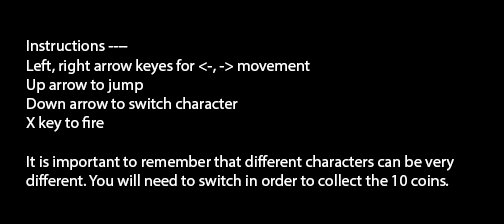
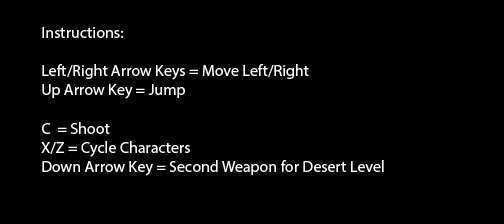
instruction update

Changed region(s): [[0.0298, 0.625, 0.9226, 0.8438], [0.0298, 0.125, 0.625, 0.5938]]

diff --git a/lib/game/levels/desert.js b/lib/game/levels/desert.js
@@ -2096,17 +2096,17 @@ LevelDesert=/*JSON[*/{
 				[0,0,0,0,0,0,0,0,0,0,0,0,0,0,1,0,0,0,0,0,0,0,0,0,0,0,0,0,0,2,1,1,1,1,1,1,1,1,1,1,0,0,0,0,0,0,0,0,0,0,0,0,0,0,0,0,0,0,0,0,0,0,0,0,0,0,0,0,0,0,0,0,0,0,0,0,0,0,0,0,0,0,0,0,0,0,0,0,12,12,0,0,0,0,0,0,0,0,0,0,0,0,0,0,0,0,0,0,0,0,0,0,1,1,0,0,0,0,0,0,0,0,1,0,0,0,0,0,0,0,0,0,0,0,0,0,0,0,1,1,37,0,0,0,0,0,0,0,0,0,0,0,0,0,0,0,0,0,0,0,0,0,0,0,0,0,0,0,0,0,0,0,0,0,0,0,12,1,0,0,0,0,0,0,0,0,0,0,0,0,0,0,0,0,0,0,12,0,0,0,0,0,0,0,1,0,0,0,0,0,0,0,0,0,0,0,0,0,0,0,0,0,0,0,0,0,0,0,1,0,0,0,0,0,0,0,0,0,0,0,0,0,0,0,0,0,0,0,0,0,0,0,0,0,0,0,0,0,0,0,0,0,0,0,0,0,0,0,0,0,0,0,0,0,0,0,0,0,0,0,0,0,0,0,0,0,0,0,0,0,0,0,0,0,0,0,0,0,0,0],
 				[0,0,0,0,0,0,0,0,0,0,0,0,0,0,1,0,0,0,0,2,1,28,0,0,0,0,0,0,2,1,1,1,1,1,1,1,1,1,1,1,0,0,0,0,0,0,0,0,0,0,0,0,0,0,0,0,0,0,0,0,0,0,0,0,0,0,0,0,0,0,0,0,0,0,0,0,0,0,0,0,0,0,0,0,0,0,0,0,0,0,0,0,0,0,0,0,0,0,0,0,0,0,0,0,0,0,0,0,0,0,0,0,0,0,0,0,0,0,0,1,1,1,1,0,0,0,0,0,0,0,0,0,0,0,0,0,0,1,1,0,0,0,0,0,0,0,0,0,0,0,0,0,0,0,0,0,0,0,0,0,0,0,0,0,0,0,0,0,0,0,0,0,0,0,0,0,0,1,0,0,0,0,0,0,0,0,0,0,12,0,0,0,0,0,0,0,0,1,1,0,0,0,0,0,1,0,0,0,0,0,0,0,0,0,0,0,0,0,0,0,0,0,0,0,0,0,0,0,1,0,0,0,0,0,0,0,0,0,0,0,0,0,0,0,0,0,0,0,0,0,0,0,0,0,0,0,0,0,0,0,0,0,0,0,0,0,0,0,0,0,0,0,0,0,0,0,0,0,0,0,0,0,0,0,0,0,0,0,0,0,0,0,0,0,0,0,0,0,0,0],
 				[0,0,0,0,0,0,0,0,0,0,0,0,0,1,1,1,1,1,1,1,1,1,1,12,12,12,12,12,1,1,1,1,1,1,1,1,1,1,1,1,0,0,0,0,0,0,0,0,0,0,0,0,0,0,0,0,0,0,0,0,0,0,0,0,0,0,0,0,0,0,0,0,0,0,0,0,0,0,0,0,2,1,1,1,1,1,24,0,0,0,0,0,0,0,0,0,0,0,0,0,0,0,0,0,0,0,0,0,0,0,0,0,0,0,0,0,0,0,0,1,1,1,1,0,0,0,0,0,0,0,0,0,1,1,1,1,1,0,0,0,0,0,0,0,0,0,0,0,0,0,0,0,0,0,0,0,0,0,0,0,0,0,0,12,12,0,0,0,0,0,0,0,0,0,0,0,0,1,0,0,0,0,0,0,0,0,0,0,0,0,0,0,0,0,0,0,0,0,0,0,0,0,0,0,0,1,0,0,0,0,0,0,0,0,0,0,0,0,0,0,0,0,0,0,0,0,0,0,1,0,0,0,0,0,0,0,0,0,0,0,0,0,0,0,0,0,0,0,0,0,0,0,0,0,0,0,0,0,0,0,0,0,0,0,0,0,0,0,0,0,0,0,0,0,0,0,0,0,0,0,0,0,0,0,0,0,0,0,0,0,0,0,0,0,0,0,0,0,0,0],
-				[0,0,0,0,0,0,0,0,0,0,0,0,0,1,0,0,0,0,0,0,0,0,1,1,24,0,0,0,0,0,0,1,1,1,1,1,1,1,1,1,24,0,0,0,0,0,0,0,0,0,0,0,0,0,0,0,0,0,0,0,0,0,0,0,0,0,0,0,0,0,0,0,0,0,0,0,0,0,0,0,1,0,0,0,0,0,0,24,0,0,0,0,0,0,0,0,0,0,0,0,0,0,0,0,0,0,0,0,0,0,0,0,0,0,0,0,0,0,0,1,1,1,1,1,1,1,0,1,1,1,1,1,0,0,0,0,0,0,0,0,0,0,0,0,0,0,0,0,0,0,0,0,0,0,12,12,0,0,0,0,0,0,0,0,0,0,0,0,0,0,0,0,0,0,0,0,1,1,0,0,0,0,0,0,0,0,0,0,0,0,0,0,0,0,0,0,0,0,0,0,0,0,0,0,0,0,0,0,0,0,0,0,0,0,0,1,0,0,0,0,0,0,0,0,0,0,0,0,1,1,0,0,0,0,0,0,0,0,0,0,0,0,0,0,0,0,0,0,0,0,0,0,0,0,0,0,0,0,0,0,0,0,0,0,0,0,0,0,0,0,0,0,0,0,0,0,0,0,0,0,0,0,0,0,0,0,0,0,0,0,0,0,0,0,0,0,0,0,0,0],
+				[0,0,0,0,0,0,0,0,0,0,0,0,0,1,0,0,0,0,0,0,0,0,1,1,24,0,0,0,0,0,0,1,1,1,1,1,1,1,1,1,24,0,0,0,0,0,0,0,0,0,0,0,0,0,0,0,0,0,0,0,0,0,0,0,0,0,0,0,0,0,0,0,0,0,0,0,0,0,0,0,1,1,0,0,0,0,0,24,0,0,0,0,0,0,0,0,0,0,0,0,0,0,0,0,0,0,0,0,0,0,0,0,0,0,0,0,0,0,0,1,1,1,1,1,1,1,0,1,1,1,1,1,0,0,0,0,0,0,0,0,0,0,0,0,0,0,0,0,0,0,0,0,0,0,12,12,0,0,0,0,0,0,0,0,0,0,0,0,0,0,0,0,0,0,0,0,1,1,0,0,0,0,0,0,0,0,0,0,0,0,0,0,0,0,0,0,0,0,0,0,0,0,0,0,0,0,0,0,0,0,0,0,0,0,0,1,0,0,0,0,0,0,0,0,0,0,0,0,1,1,0,0,0,0,0,0,0,0,0,0,0,0,0,0,0,0,0,0,0,0,0,0,0,0,0,0,0,0,0,0,0,0,0,0,0,0,0,0,0,0,0,0,0,0,0,0,0,0,0,0,0,0,0,0,0,0,0,0,0,0,0,0,0,0,0,0,0,0,0,0],
 				[0,0,0,0,0,0,0,0,0,0,0,0,0,1,0,0,0,0,0,0,0,0,0,1,1,24,0,0,0,0,0,0,1,1,1,1,1,1,1,1,1,1,1,1,1,1,1,1,1,1,1,1,1,24,0,0,0,0,0,0,0,0,0,0,0,0,0,0,0,0,0,0,0,0,0,0,0,0,0,2,1,0,0,0,0,0,0,24,24,0,0,0,0,0,0,0,0,0,0,0,0,0,0,0,0,0,0,0,0,0,0,0,0,0,0,0,0,0,0,0,0,0,0,0,0,0,0,0,0,0,0,0,0,0,0,0,0,0,0,0,0,0,0,0,0,0,0,0,0,0,0,0,0,0,0,0,0,0,0,0,0,0,0,0,0,0,0,0,0,0,0,0,0,0,0,1,1,0,0,0,0,0,0,0,0,0,0,0,0,0,0,0,0,0,0,0,0,0,0,0,0,0,0,0,0,0,0,0,0,0,0,0,0,0,0,0,0,0,0,0,0,0,0,0,0,0,0,0,0,1,0,0,0,0,0,0,0,0,0,0,0,0,0,0,0,0,0,0,0,0,0,0,0,0,0,0,0,0,0,0,0,0,0,0,0,0,0,0,0,0,0,0,0,0,0,0,0,0,0,0,0,0,0,0,0,0,0,0,0,0,0,0,0,0,0,0,0,0,0,0],
-				[0,0,0,0,0,0,0,0,0,0,0,0,0,0,0,0,0,0,0,0,0,0,0,0,0,1,24,0,0,0,0,0,0,0,1,1,1,1,1,1,1,1,1,1,1,1,1,1,1,1,1,1,1,1,24,0,0,0,0,0,0,0,0,0,0,0,0,0,0,0,0,0,0,0,2,1,1,1,1,1,0,0,0,0,0,0,0,0,0,1,1,1,1,24,0,0,0,0,0,0,0,0,0,0,0,0,0,0,0,0,0,0,0,0,0,0,0,0,0,0,0,0,0,0,0,0,0,0,0,0,0,0,0,0,0,0,0,12,12,12,12,12,12,12,12,0,0,0,0,0,0,0,0,0,0,0,0,0,0,0,0,0,0,0,0,0,0,0,0,0,0,0,0,0,1,0,0,0,0,0,0,0,0,0,0,0,0,0,12,0,0,0,0,0,0,0,0,12,12,12,12,24,0,0,0,0,0,0,0,0,0,0,0,0,0,0,0,0,0,0,0,0,0,0,0,0,0,0,0,1,0,0,0,0,0,0,0,0,0,0,0,0,0,0,0,0,0,0,0,0,0,0,0,0,0,0,0,0,0,0,0,0,0,0,0,0,0,0,0,0,0,0,0,0,0,0,0,0,0,0,0,0,0,0,0,0,0,0,0,0,0,0,0,0,0,0,0,0,0,0],
-				[0,0,0,0,0,0,0,0,0,0,0,0,0,0,0,0,0,0,0,0,0,0,0,0,0,0,1,24,0,0,0,0,0,0,1,1,1,1,1,1,1,1,1,1,1,1,1,1,1,1,1,1,1,1,1,24,0,0,0,0,0,0,0,0,0,0,0,0,0,0,0,0,0,0,1,0,0,0,0,0,0,0,0,0,0,0,0,0,0,0,0,0,0,0,24,0,0,0,0,0,0,0,0,0,0,0,0,0,0,0,0,0,0,0,0,0,0,0,0,0,1,1,0,0,0,0,0,0,0,0,0,0,0,0,0,0,0,0,0,0,0,0,0,0,0,12,0,0,0,0,0,0,0,0,0,0,0,0,0,0,0,0,0,0,0,0,0,0,0,0,0,0,0,0,1,0,0,0,0,0,0,0,0,0,0,0,0,0,0,0,0,0,0,0,0,0,0,0,0,0,0,0,12,12,12,0,0,0,0,0,0,0,0,0,0,0,0,0,0,0,0,0,0,0,0,0,1,0,1,1,0,0,0,0,0,0,0,0,0,0,0,0,0,0,0,0,0,0,0,0,0,0,0,0,0,0,0,0,0,0,0,0,0,0,0,0,0,0,0,0,0,0,0,0,0,0,0,0,0,0,0,0,0,0,0,0,0,0,0,0,0,0,0,0,0,0,0,0,0,0],
-				[0,0,0,0,0,0,0,0,0,0,0,0,0,0,0,0,0,0,0,0,0,0,0,0,0,0,0,1,24,0,0,0,0,0,0,0,1,1,1,1,1,1,1,1,1,1,1,1,1,1,1,1,1,1,1,1,24,0,0,0,0,0,0,0,0,0,0,0,0,0,0,0,0,0,1,0,0,0,0,0,0,0,0,0,0,0,0,0,0,0,0,0,0,0,0,24,0,0,0,0,0,0,0,0,0,0,0,0,0,0,0,0,0,0,0,0,0,0,0,1,1,1,1,0,0,0,0,0,0,0,0,0,0,0,0,0,0,0,0,0,0,0,0,0,0,0,12,12,12,12,0,0,0,12,12,12,12,0,0,0,0,0,0,0,0,0,0,0,0,0,0,0,0,12,0,0,0,0,0,0,0,0,0,0,0,0,0,0,12,0,0,0,0,0,0,0,0,0,0,0,0,0,0,0,12,12,12,12,0,0,0,0,0,0,0,0,0,0,0,0,0,0,0,0,0,0,0,1,1,0,0,0,0,0,0,0,0,0,0,0,0,0,0,0,0,0,0,0,0,0,0,0,0,0,0,0,0,0,0,0,0,0,0,0,0,0,0,0,0,0,0,0,0,0,0,0,0,0,0,0,0,0,0,0,0,0,0,0,0,0,0,0,0,0,0,0,0,0,0,0],
-				[0,0,0,0,0,0,0,0,0,0,0,0,0,0,0,0,0,0,0,0,0,0,0,0,0,0,0,0,1,24,0,0,0,0,0,0,0,0,1,1,1,1,1,1,1,1,1,1,1,1,1,1,1,1,1,1,1,24,0,0,0,0,0,0,0,0,0,0,0,0,0,0,0,2,1,0,0,0,0,0,0,0,0,0,0,0,0,0,0,0,0,0,0,0,0,1,0,0,0,0,0,0,0,0,0,0,0,0,0,0,0,0,0,0,0,0,0,2,1,0,0,0,0,1,1,1,1,1,1,1,1,1,1,1,1,1,1,1,1,1,1,1,1,1,1,1,1,1,1,0,0,0,0,0,0,0,0,0,0,0,0,0,0,0,0,0,0,0,0,0,0,0,0,0,0,0,0,0,0,0,0,0,0,0,0,0,0,0,0,0,0,0,0,0,0,0,0,0,0,0,0,0,0,0,0,0,0,0,0,0,0,0,0,0,0,0,0,0,0,0,0,0,0,0,0,0,0,0,1,0,0,0,0,0,0,0,0,0,0,0,0,0,0,0,0,0,0,0,0,0,0,0,0,0,0,0,0,0,0,0,0,0,0,0,0,0,0,0,0,0,0,0,0,0,0,0,0,0,0,0,0,0,0,0,0,0,0,0,0,0,0,0,0,0,0,0,0,0,0,0],
-				[0,0,0,0,0,0,0,0,0,0,0,0,0,0,0,0,0,0,0,0,0,0,0,0,0,0,0,0,0,1,24,0,0,0,0,0,0,0,0,1,1,1,1,1,1,1,1,1,1,1,1,1,1,1,1,1,1,1,24,0,0,0,0,0,0,0,0,0,0,0,0,0,2,1,0,0,0,0,0,0,0,0,0,0,0,0,0,0,0,0,0,0,0,0,0,0,1,1,1,1,1,0,0,0,0,0,0,12,12,12,12,12,12,12,12,12,12,1,0,0,0,0,0,0,0,0,0,0,0,0,0,0,0,0,0,0,0,0,0,0,0,0,0,0,0,0,0,0,0,1,1,1,1,1,1,1,1,1,24,0,0,0,0,0,12,12,12,12,12,12,12,0,0,0,0,0,0,0,0,0,0,0,0,0,0,0,0,0,0,0,0,0,0,0,0,0,0,0,0,0,0,0,0,0,0,0,0,0,0,0,0,0,0,0,0,0,0,0,0,0,0,0,0,0,0,0,0,1,1,0,0,0,0,0,0,0,0,0,0,0,0,0,0,0,0,0,0,0,0,0,0,0,0,0,0,0,0,0,0,0,0,0,0,0,0,0,0,0,0,0,0,0,0,0,0,0,0,0,0,0,0,0,0,0,0,0,0,0,0,0,0,0,0,0,0,0,0,0,0,0],
-				[0,0,0,0,0,0,0,0,0,0,0,0,0,0,0,0,0,0,0,0,0,0,0,0,0,0,0,0,0,0,1,1,1,1,1,24,0,0,0,0,0,0,0,1,1,1,1,1,1,1,1,1,1,1,1,1,1,1,1,24,0,0,0,0,0,0,0,0,0,0,0,0,1,0,0,0,0,0,0,0,0,0,0,0,0,0,0,0,0,0,0,0,0,0,0,0,0,0,0,1,1,0,0,0,0,0,0,0,0,0,0,0,0,0,0,0,0,1,0,0,0,0,0,0,0,0,0,0,0,0,0,0,0,0,0,0,0,0,0,0,0,0,0,0,0,0,0,0,0,0,0,0,0,0,0,0,0,0,1,0,0,0,0,0,0,0,0,0,0,0,0,0,0,0,0,0,0,0,0,0,0,0,0,2,1,1,1,1,1,1,1,1,1,1,1,1,1,1,1,1,1,1,1,1,1,1,1,1,1,1,1,1,1,1,1,1,1,1,1,1,1,1,1,1,1,1,1,1,1,1,0,0,0,0,0,0,0,0,0,0,0,0,0,0,0,0,0,0,0,0,0,0,0,0,0,0,0,0,0,0,0,0,0,0,0,0,0,0,0,0,0,0,0,0,0,0,0,0,0,0,0,0,0,0,0,0,0,0,0,0,0,0,0,0,0,0,0,0,0,0],
-				[0,0,0,0,0,0,0,0,0,0,0,0,0,0,0,0,0,0,0,0,0,0,0,0,0,0,0,0,0,0,0,0,0,0,0,1,1,24,0,0,0,0,0,0,0,0,0,1,1,1,1,1,1,1,1,1,1,1,1,1,1,1,1,1,12,0,0,0,12,1,1,1,1,0,0,0,0,0,0,0,0,0,0,0,0,0,0,0,0,0,0,0,0,0,0,0,0,0,0,1,1,1,1,1,1,1,1,1,1,1,1,1,1,1,1,1,1,0,0,0,0,0,0,0,0,0,0,0,0,0,0,0,0,0,0,0,0,0,0,0,0,0,0,0,0,0,0,0,0,0,0,0,0,0,0,0,0,0,1,12,12,12,12,1,1,1,1,1,1,1,1,1,1,1,1,1,1,1,1,1,0,0,0,1,1,0,0,0,0,0,0,0,0,0,0,0,0,0,0,0,0,0,0,0,0,0,0,0,0,0,0,0,0,0,0,0,0,0,0,0,0,0,0,0,0,0,0,1,0,0,0,0,0,0,0,0,0,0,0,0,0,0,0,0,0,0,0,0,0,0,0,0,0,0,0,0,0,0,0,0,0,0,0,0,0,0,0,0,0,0,0,0,0,0,0,0,0,0,0,0,0,0,0,0,0,0,0,0,0,0,0,0,0,0,0,0,0,0,0,0],
-				[0,0,0,0,0,0,0,0,0,0,0,0,0,0,0,0,0,0,0,0,0,0,0,0,0,0,0,0,0,0,0,0,0,0,0,0,0,1,1,1,1,24,0,0,0,0,0,0,0,0,1,1,1,1,1,1,1,1,1,1,1,1,1,1,0,0,0,12,2,1,1,0,0,0,0,0,0,0,0,0,0,0,0,0,0,0,0,0,0,0,0,0,0,0,0,0,0,0,0,0,0,0,0,0,0,0,0,0,0,0,0,0,0,0,0,0,0,0,0,0,0,0,0,0,0,0,0,0,0,0,0,0,0,0,0,0,0,0,0,0,0,0,0,0,0,0,0,0,0,0,0,0,0,0,0,0,0,0,1,0,0,0,12,1,0,0,0,0,0,0,0,0,0,0,0,0,0,0,0,1,0,12,12,0,1,0,0,0,0,0,0,0,0,0,0,0,0,0,0,0,0,0,0,0,0,0,0,0,0,0,0,0,0,0,0,0,0,0,0,0,0,0,0,0,0,0,0,1,0,0,0,0,0,0,0,0,0,0,0,0,0,0,0,0,0,0,0,0,0,0,0,0,0,0,0,0,0,0,0,0,0,0,0,0,0,0,0,0,0,0,0,0,0,0,0,0,0,0,0,0,0,0,0,0,0,0,0,0,0,0,0,0,0,0,0,0,0,0,0,0],
-				[0,0,0,0,0,0,0,0,0,0,0,0,0,0,0,0,0,0,0,0,0,0,0,0,0,0,0,0,0,0,0,0,0,0,0,0,0,0,0,0,0,1,24,0,0,0,0,0,0,0,0,0,1,1,1,1,1,1,1,1,1,1,1,0,0,0,0,0,1,1,0,0,0,0,0,0,0,0,0,0,0,0,0,0,0,0,0,0,0,0,0,0,0,0,0,0,0,0,0,0,0,0,0,0,0,0,0,0,0,0,0,0,0,0,0,0,0,0,0,0,0,0,0,0,0,0,0,0,0,0,0,0,0,0,0,0,0,0,0,0,0,0,0,0,0,0,0,0,0,0,0,0,0,0,0,0,0,0,1,0,0,0,0,1,0,0,0,0,0,0,0,0,1,1,1,1,1,0,0,1,1,0,0,0,1,1,0,0,0,0,0,0,0,0,0,0,0,0,0,0,0,0,0,0,0,0,0,0,0,0,0,0,0,0,0,0,0,0,0,0,0,0,0,0,0,0,0,1,0,0,0,0,0,0,0,0,0,0,0,0,0,0,0,0,0,0,0,0,0,0,0,0,0,0,0,0,0,0,0,0,0,0,0,0,0,0,0,0,0,0,0,0,0,0,0,0,0,0,0,0,0,0,0,0,0,0,0,0,0,0,0,0,0,0,0,0,0,0,0,0],
+				[0,0,0,0,0,0,0,0,0,0,0,0,0,0,0,0,0,0,0,0,0,0,0,0,0,1,24,0,0,0,0,0,0,0,1,1,1,1,1,1,1,1,1,1,1,1,1,1,1,1,1,1,1,1,24,0,0,0,0,0,0,0,0,0,0,0,0,0,0,0,0,0,0,0,2,1,1,1,1,1,1,0,0,0,0,0,0,0,0,1,1,1,1,24,0,0,0,0,0,0,0,0,0,0,0,0,0,0,0,0,0,0,0,0,0,0,0,0,0,0,0,0,0,0,0,0,0,0,0,0,0,0,0,0,0,0,0,12,12,12,12,12,12,12,12,0,0,0,0,0,0,0,0,0,0,0,0,0,0,0,0,0,0,0,0,0,0,0,0,0,0,0,0,0,1,0,0,0,0,0,0,0,0,0,0,0,0,0,12,0,0,0,0,0,0,0,0,12,12,12,12,24,0,0,0,0,0,0,0,0,0,0,0,0,0,0,0,0,0,0,0,0,0,0,0,0,0,0,0,1,0,0,0,0,0,0,0,0,0,0,0,0,0,0,0,0,0,0,0,0,0,0,0,0,0,0,0,0,0,0,0,0,0,0,0,0,0,0,0,0,0,0,0,0,0,0,0,0,0,0,0,0,0,0,0,0,0,0,0,0,0,0,0,0,0,0,0,0,0,0],
+				[0,0,0,0,0,0,0,0,0,0,0,0,0,0,0,0,0,0,0,0,0,0,0,0,0,0,1,24,0,0,0,0,0,0,1,1,1,1,1,1,1,1,1,1,1,1,1,1,1,1,1,1,1,1,1,24,0,0,0,0,0,0,0,0,0,0,0,0,0,0,0,0,0,0,1,1,1,1,1,1,1,0,0,0,0,0,0,0,0,0,0,0,0,0,24,0,0,0,0,0,0,0,0,0,0,0,0,0,0,0,0,0,0,0,0,0,0,0,0,0,1,1,0,0,0,0,0,0,0,0,0,0,0,0,0,0,0,0,0,0,0,0,0,0,0,12,0,0,0,0,0,0,0,0,0,0,0,0,0,0,0,0,0,0,0,0,0,0,0,0,0,0,0,0,1,0,0,0,0,0,0,0,0,0,0,0,0,0,0,0,0,0,0,0,0,0,0,0,0,0,0,0,12,12,12,0,0,0,0,0,0,0,0,0,0,0,0,0,0,0,0,0,0,0,0,0,1,0,1,1,0,0,0,0,0,0,0,0,0,0,0,0,0,0,0,0,0,0,0,0,0,0,0,0,0,0,0,0,0,0,0,0,0,0,0,0,0,0,0,0,0,0,0,0,0,0,0,0,0,0,0,0,0,0,0,0,0,0,0,0,0,0,0,0,0,0,0,0,0,0],
+				[0,0,0,0,0,0,0,0,0,0,0,0,0,0,0,0,0,0,0,0,0,0,0,0,0,0,0,1,24,0,0,0,0,0,0,0,1,1,1,1,1,1,1,1,1,1,1,1,1,1,1,1,1,1,1,1,24,0,0,0,0,0,0,0,0,0,0,0,0,0,0,0,0,0,1,1,0,0,0,0,0,0,0,0,0,0,0,0,0,0,0,0,0,0,0,24,0,0,0,0,0,0,0,0,0,0,0,0,0,0,0,0,0,0,0,0,0,0,0,1,1,1,1,0,0,0,0,0,0,0,0,0,0,0,0,0,0,0,0,0,0,0,0,0,0,0,12,12,12,12,0,0,0,12,12,12,12,0,0,0,0,0,0,0,0,0,0,0,0,0,0,0,0,12,0,0,0,0,0,0,0,0,0,0,0,0,0,0,12,0,0,0,0,0,0,0,0,0,0,0,0,0,0,0,12,12,12,12,0,0,0,0,0,0,0,0,0,0,0,0,0,0,0,0,0,0,0,1,1,0,0,0,0,0,0,0,0,0,0,0,0,0,0,0,0,0,0,0,0,0,0,0,0,0,0,0,0,0,0,0,0,0,0,0,0,0,0,0,0,0,0,0,0,0,0,0,0,0,0,0,0,0,0,0,0,0,0,0,0,0,0,0,0,0,0,0,0,0,0,0],
+				[0,0,0,0,0,0,0,0,0,0,0,0,0,0,0,0,0,0,0,0,0,0,0,0,0,0,0,0,1,24,0,0,0,0,0,0,0,0,1,1,1,1,1,1,1,1,1,1,1,1,1,1,1,1,1,1,1,24,0,0,0,0,0,0,0,0,0,0,0,0,0,0,0,2,1,1,0,0,0,0,0,0,0,0,0,0,0,0,0,0,0,0,0,0,0,1,0,0,0,0,0,0,0,0,0,0,0,0,0,0,0,0,0,0,0,0,0,2,1,0,0,0,0,1,1,1,1,1,1,1,1,1,1,1,1,1,1,1,1,1,1,1,1,1,1,1,1,1,1,0,0,0,0,0,0,0,0,0,0,0,0,0,0,0,0,0,0,0,0,0,0,0,0,0,0,0,0,0,0,0,0,0,0,0,0,0,0,0,0,0,0,0,0,0,0,0,0,0,0,0,0,0,0,0,0,0,0,0,0,0,0,0,0,0,0,0,0,0,0,0,0,0,0,0,0,0,0,0,1,0,0,0,0,0,0,0,0,0,0,0,0,0,0,0,0,0,0,0,0,0,0,0,0,0,0,0,0,0,0,0,0,0,0,0,0,0,0,0,0,0,0,0,0,0,0,0,0,0,0,0,0,0,0,0,0,0,0,0,0,0,0,0,0,0,0,0,0,0,0,0],
+				[0,0,0,0,0,0,0,0,0,0,0,0,0,0,0,0,0,0,0,0,0,0,0,0,0,0,0,0,0,1,24,0,0,0,0,0,0,0,0,1,1,1,1,1,1,1,1,1,1,1,1,1,1,1,1,1,1,1,24,0,0,0,0,0,0,0,0,0,0,0,0,0,2,1,1,1,0,0,0,0,0,0,0,0,0,0,0,0,0,0,0,0,0,0,0,0,1,1,1,1,1,0,0,0,0,0,0,12,12,12,12,12,12,12,12,12,12,1,0,0,0,0,0,0,0,0,0,0,0,0,0,0,0,0,0,0,0,0,0,0,0,0,0,0,0,0,0,0,0,1,1,1,1,1,1,1,1,1,24,0,0,0,0,0,12,12,12,12,12,12,12,0,0,0,0,0,0,0,0,0,0,0,0,0,0,0,0,0,0,0,0,0,0,0,0,0,0,0,0,0,0,0,0,0,0,0,0,0,0,0,0,0,0,0,0,0,0,0,0,0,0,0,0,0,0,0,0,1,1,0,0,0,0,0,0,0,0,0,0,0,0,0,0,0,0,0,0,0,0,0,0,0,0,0,0,0,0,0,0,0,0,0,0,0,0,0,0,0,0,0,0,0,0,0,0,0,0,0,0,0,0,0,0,0,0,0,0,0,0,0,0,0,0,0,0,0,0,0,0,0],
+				[0,0,0,0,0,0,0,0,0,0,0,0,0,0,0,0,0,0,0,0,0,0,0,0,0,0,0,0,0,0,1,1,1,1,1,24,0,0,0,0,0,0,0,1,1,1,1,1,1,1,1,1,1,1,1,1,1,1,1,24,0,0,0,0,0,0,0,0,0,0,0,0,1,1,1,0,0,0,0,0,0,0,0,0,0,0,0,0,0,0,0,0,0,0,0,0,0,0,0,1,1,0,0,0,0,0,0,0,0,0,0,0,0,0,0,0,0,1,0,0,0,0,0,0,0,0,0,0,0,0,0,0,0,0,0,0,0,0,0,0,0,0,0,0,0,0,0,0,0,0,0,0,0,0,0,0,0,0,1,0,0,0,0,0,0,0,0,0,0,0,0,0,0,0,0,0,0,0,0,0,0,0,0,2,1,1,1,1,1,1,1,1,1,1,1,1,1,1,1,1,1,1,1,1,1,1,1,1,1,1,1,1,1,1,1,1,1,1,1,1,1,1,1,1,1,1,1,1,1,1,0,0,0,0,0,0,0,0,0,0,0,0,0,0,0,0,0,0,0,0,0,0,0,0,0,0,0,0,0,0,0,0,0,0,0,0,0,0,0,0,0,0,0,0,0,0,0,0,0,0,0,0,0,0,0,0,0,0,0,0,0,0,0,0,0,0,0,0,0,0],
+				[0,0,0,0,0,0,0,0,0,0,0,0,0,0,0,0,0,0,0,0,0,0,0,0,0,0,0,0,0,0,0,0,0,0,0,1,1,24,0,0,0,0,0,0,0,0,0,1,1,1,1,1,1,1,1,1,1,1,1,1,1,1,1,1,12,0,0,0,12,1,1,1,1,1,0,0,0,0,0,0,0,0,0,0,0,0,0,0,0,0,0,0,0,0,0,0,0,0,0,1,1,1,1,1,1,1,1,1,1,1,1,1,1,1,1,1,1,0,0,0,0,0,0,0,0,0,0,0,0,0,0,0,0,0,0,0,0,0,0,0,0,0,0,0,0,0,0,0,0,0,0,0,0,0,0,0,0,0,1,12,12,12,12,1,1,1,1,1,1,1,1,1,1,1,1,1,1,1,1,1,0,0,0,1,1,0,0,0,0,0,0,0,0,0,0,0,0,0,0,0,0,0,0,0,0,0,0,0,0,0,0,0,0,0,0,0,0,0,0,0,0,0,0,0,0,0,0,1,0,0,0,0,0,0,0,0,0,0,0,0,0,0,0,0,0,0,0,0,0,0,0,0,0,0,0,0,0,0,0,0,0,0,0,0,0,0,0,0,0,0,0,0,0,0,0,0,0,0,0,0,0,0,0,0,0,0,0,0,0,0,0,0,0,0,0,0,0,0,0,0],
+				[0,0,0,0,0,0,0,0,0,0,0,0,0,0,0,0,0,0,0,0,0,0,0,0,0,0,0,0,0,0,0,0,0,0,0,0,0,1,1,1,1,24,0,0,0,0,0,0,0,0,1,1,1,1,1,1,1,1,1,1,1,1,1,1,0,0,0,12,2,1,1,1,1,0,0,0,0,0,0,0,0,0,0,0,0,0,0,0,0,0,0,0,0,0,0,0,0,0,0,0,0,0,0,0,0,0,0,0,0,0,0,0,0,0,0,0,0,0,0,0,0,0,0,0,0,0,0,0,0,0,0,0,0,0,0,0,0,0,0,0,0,0,0,0,0,0,0,0,0,0,0,0,0,0,0,0,0,0,1,0,0,0,12,1,0,0,0,0,0,0,0,0,0,0,0,0,0,0,0,1,0,12,12,0,1,0,0,0,0,0,0,0,0,0,0,0,0,0,0,0,0,0,0,0,0,0,0,0,0,0,0,0,0,0,0,0,0,0,0,0,0,0,0,0,0,0,0,1,0,0,0,0,0,0,0,0,0,0,0,0,0,0,0,0,0,0,0,0,0,0,0,0,0,0,0,0,0,0,0,0,0,0,0,0,0,0,0,0,0,0,0,0,0,0,0,0,0,0,0,0,0,0,0,0,0,0,0,0,0,0,0,0,0,0,0,0,0,0,0,0],
+				[0,0,0,0,0,0,0,0,0,0,0,0,0,0,0,0,0,0,0,0,0,0,0,0,0,0,0,0,0,0,0,0,0,0,0,0,0,0,0,0,0,1,24,0,0,0,0,0,0,0,0,0,1,1,1,1,1,1,1,1,1,1,1,0,0,0,0,0,1,1,1,0,0,0,0,0,0,0,0,0,0,0,0,0,0,0,0,0,0,0,0,0,0,0,0,0,0,0,0,0,0,0,0,0,0,0,0,0,0,0,0,0,0,0,0,0,0,0,0,0,0,0,0,0,0,0,0,0,0,0,0,0,0,0,0,0,0,0,0,0,0,0,0,0,0,0,0,0,0,0,0,0,0,0,0,0,0,0,1,0,0,0,0,1,0,0,0,0,0,0,0,0,1,1,1,1,1,0,0,1,1,0,0,0,1,1,0,0,0,0,0,0,0,0,0,0,0,0,0,0,0,0,0,0,0,0,0,0,0,0,0,0,0,0,0,0,0,0,0,0,0,0,0,0,0,0,0,1,0,0,0,0,0,0,0,0,0,0,0,0,0,0,0,0,0,0,0,0,0,0,0,0,0,0,0,0,0,0,0,0,0,0,0,0,0,0,0,0,0,0,0,0,0,0,0,0,0,0,0,0,0,0,0,0,0,0,0,0,0,0,0,0,0,0,0,0,0,0,0,0],
 				[0,0,0,0,0,0,0,0,0,0,0,0,0,0,0,0,0,0,0,0,0,0,0,0,0,0,0,0,0,0,0,0,0,0,0,0,0,0,0,0,0,0,0,1,1,0,0,0,0,0,0,0,0,0,0,0,1,1,1,1,1,1,1,0,0,0,0,2,1,1,0,0,0,0,0,0,0,0,0,0,0,0,0,0,0,0,0,0,0,0,0,0,0,0,0,0,0,0,0,0,0,0,0,0,0,0,0,0,0,0,0,0,0,0,0,0,0,0,0,0,0,0,0,0,0,0,0,0,0,0,0,0,0,0,0,0,0,0,0,0,0,0,0,0,0,0,0,0,0,0,0,0,0,0,0,0,0,1,1,1,0,0,0,1,0,0,0,0,0,0,0,1,0,0,0,0,1,1,1,1,1,0,0,0,13,1,0,0,0,0,0,0,0,0,0,0,0,0,0,0,0,0,0,0,0,0,0,0,0,0,0,0,0,0,0,0,0,0,0,0,0,0,0,0,0,0,0,1,0,0,0,0,0,0,0,0,0,0,0,0,0,0,0,0,0,0,0,0,0,0,0,0,0,0,0,0,0,0,0,0,0,0,0,0,0,0,0,0,0,0,0,0,0,0,0,0,0,0,0,0,0,0,0,0,0,0,0,0,0,0,0,0,0,0,0,0,0,0,0,0],
 				[0,0,0,0,0,0,0,0,0,0,0,0,0,0,0,0,0,0,0,0,0,0,0,0,0,0,0,0,0,0,0,0,0,0,0,0,0,0,0,0,0,0,0,0,0,1,0,0,0,0,0,0,0,0,0,0,0,0,0,0,0,0,0,0,12,12,12,1,1,0,0,0,0,0,0,0,0,0,0,0,0,0,0,0,0,0,0,0,0,0,0,0,0,0,0,0,0,0,0,0,0,0,0,0,0,0,0,0,0,0,0,0,0,0,0,0,0,0,0,0,0,0,0,0,0,0,0,0,0,0,0,0,0,0,0,0,0,0,0,0,0,0,0,0,0,0,0,0,0,0,0,0,0,0,0,0,1,0,0,0,0,0,0,1,0,0,0,0,0,0,1,0,0,0,1,1,1,1,0,0,0,0,0,0,0,0,1,0,0,0,0,0,0,0,0,0,0,0,0,0,0,0,0,0,0,0,0,0,0,0,0,0,0,0,0,0,0,0,0,0,0,0,0,0,0,0,0,1,0,0,0,0,0,0,0,0,0,0,0,0,0,0,0,0,0,0,0,0,0,0,0,0,0,0,0,0,0,0,0,0,0,0,0,0,0,0,0,0,0,0,0,0,0,0,0,0,0,0,0,0,0,0,0,0,0,0,0,0,0,0,0,0,0,0,0,0,0,0,0,0],
 				[0,0,0,0,0,0,0,0,0,0,0,0,0,0,0,0,0,0,0,0,0,0,0,0,0,0,0,0,0,0,0,0,0,0,0,0,0,0,0,0,0,0,0,0,0,0,1,1,1,1,1,0,0,0,0,0,0,0,0,0,0,0,0,0,0,0,0,1,1,1,0,0,0,0,0,0,0,0,0,0,0,0,0,0,0,0,0,0,0,0,0,0,1,1,1,1,0,0,0,0,0,0,0,0,0,0,0,0,0,0,0,0,0,0,0,0,0,0,0,0,0,0,0,0,0,0,0,0,0,0,0,0,0,0,0,0,0,0,0,0,0,0,0,0,0,0,0,0,0,0,0,0,0,0,0,1,0,0,0,0,0,0,0,1,0,0,0,0,0,0,1,0,0,0,0,1,1,0,0,0,0,0,2,0,0,0,0,1,0,0,0,0,0,0,0,0,0,0,0,0,0,0,0,0,0,0,0,0,0,0,0,0,0,0,0,0,0,0,0,0,0,0,0,0,0,0,0,1,0,0,0,0,0,0,0,0,0,0,0,0,0,0,0,0,0,0,0,0,0,0,0,0,0,0,0,0,0,0,0,0,0,0,0,0,0,0,0,0,0,0,0,0,0,0,0,0,0,0,0,0,0,0,0,0,0,0,0,0,0,0,0,0,0,0,0,0,0,0,0,0],

diff --git a/lib/game/entities/player.js b/lib/game/entities/player.js
@@ -56,7 +56,7 @@ ig.module(
         offset = offset * 10;
             this.addAnim( 'idle', .7, [0+offset, 6+offset] );
             this.addAnim( 'run', .07, [0+offset,1+offset,2+offset,3+offset,4+offset,5+offset] );
-            this.addAnim( 'jump', 1, [9+offset] );
+            this.addAnim( 'jump', .15, [9+offset, 6+offset] );
             this.addAnim( 'fall', 0.4, [6+offset,7+offset] );
             this.addAnim( 'shoot', .3, [2+offset,4+offset] );
         },
